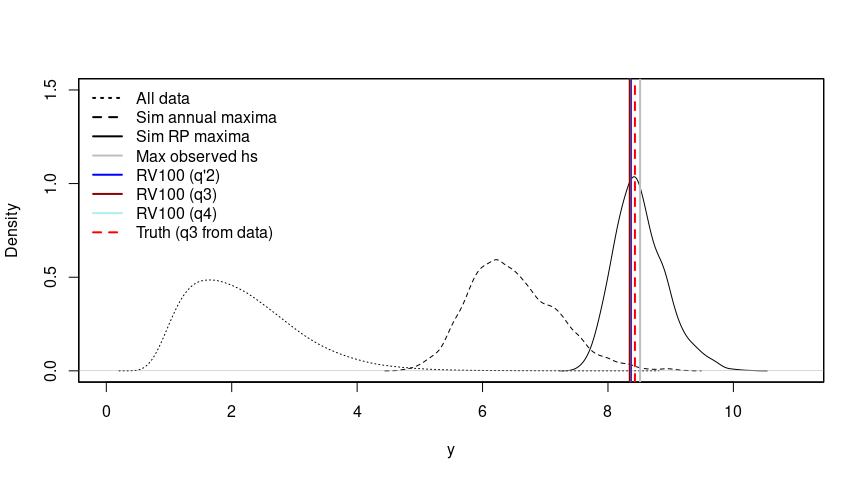
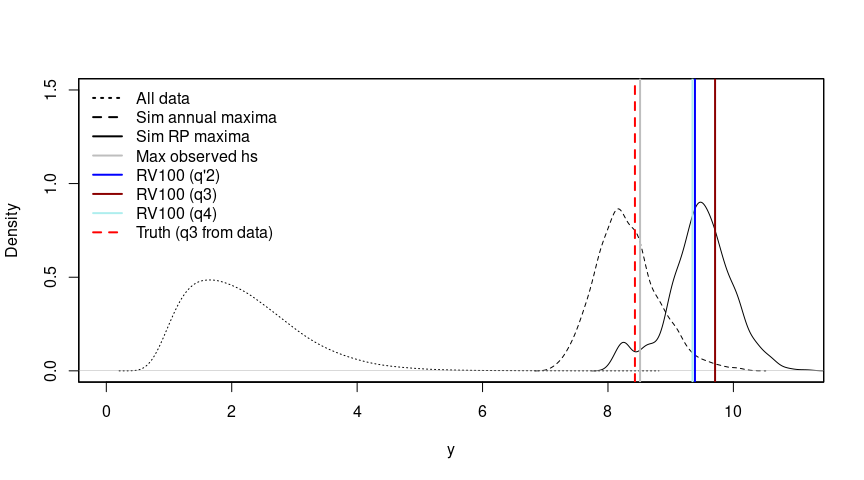
added crest distribution and documentation

Changed region(s): [[0.6562, 0.1562, 0.875, 0.7812], [0.9062, 0.75, 0.9375, 0.7812], [0.875, 0.7188, 0.9062, 0.75]]

diff --git a/README.md b/README.md
@@ -2,6 +2,7 @@
 # EnvEx - **Env**ironmental **Ex**tremes
 
 <!-- badges: start -->
+
 <!-- badges: end -->
 
 EnvEx provides functions to model non-stationary and joint extremes.
@@ -54,12 +55,13 @@ system.time(df_pick <- peak_picking(ds, peak_picking_thr_model_fml,
 ```
 
     ## [1] "apply threshold model to data"
+
     ## [1] "label storms"
     ## [1] "combine and relabel storm peaks that are too close"
     ## [1] "find peaks for combined storms"
 
     ##    user  system elapsed 
-    ## 295.389  27.999 323.598
+    ## 358.680  35.966 394.657
 
 ``` r
 # additional variables were added, i.e. exc, thr, and storm_idx
@@ -99,7 +101,7 @@ system.time(res_bstrp <- run_bootstrap_storms_pots(df = df_pick$storms,
 ```
 
     ##    user  system elapsed 
-    ##   8.447   0.077   8.526
+    ##   7.118   0.000   7.118
 
 ``` r
 bstrp_storms_lst <- res_bstrp$boot_samples
@@ -206,7 +208,7 @@ dhs <- diagnose_margs_preds_density(preds_margs_lst, "hs", bw=.1, xlim=c(5,40))
 
     ## [1] "summary maxes:"
     ##    Min. 1st Qu.  Median    Mean 3rd Qu.    Max. 
-    ##   11.73   13.65   14.46   14.83   15.44   43.76
+    ##   14.81   17.78   19.33   22.36   22.33  179.32
 
 ``` r
 abline(v = max(df_pick$pots$hs), col = "gray", lwd = 2)
@@ -546,9 +548,9 @@ cat(sprintf("Low sector: %.2f\nHigh sector: %.2f\nOmni: %.2f\n",
             RP_f_hmax_low, RP_f_hmax_high, RP_f_hmax))
 ```
 
-    ## Low sector: 14.17
-    ## High sector: 21.77
-    ## Omni: 23.04
+    ## Low sector: 18.99
+    ## High sector: 32.10
+    ## Omni: 33.24
 
 ## Apply to synthetic, univariate, non-stationary data
 
@@ -587,12 +589,13 @@ system.time(df_pick <- peak_picking(ds_subset, peak_picking_thr_model_fml,
 ```
 
     ## [1] "apply threshold model to data"
+
     ## [1] "label storms"
     ## [1] "combine and relabel storm peaks that are too close"
     ## [1] "find peaks for combined storms"
 
     ##    user  system elapsed 
-    ##  22.111   0.714  22.828
+    ##  25.046   0.440  25.489
 
 ## Plot picking result
 
@@ -635,7 +638,7 @@ cvres <- cross_validation(dfin = df_pick$pots, nr_cv = 5,
 plot_cvres(cvres, limits = c(.8, .9))
 ```
 
-    ## [1] 0.88 0.88
+    ## [1] 0.90 0.88
 
 ![](README_files/figure-gfm/unnamed-chunk-28-1.png)<!-- -->
 
@@ -772,9 +775,9 @@ cat(sprintf("Truth: %.2f\nq'2: %.2f\nq3: %.2f\nq4: %.2f\n",
 ```
 
     ## Truth: 8.43
-    ## q'2: 8.37
-    ## q3: 8.35
-    ## q4: 8.35
+    ## q'2: 9.39
+    ## q3: 9.71
+    ## q4: 9.35
 
 ## Notes
 
